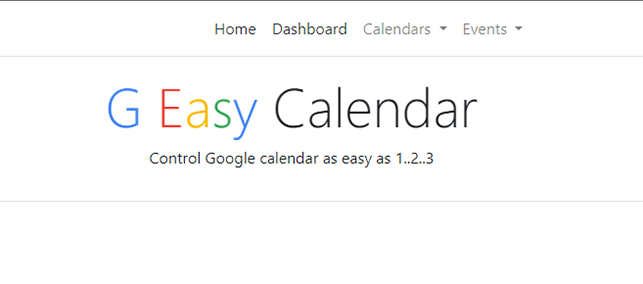
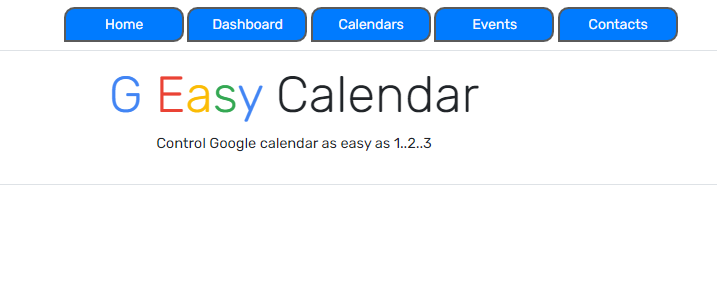
Fixes on the my-resume tags + CSS for printing black and white when needed ( commented code ) + new screenshot for the G Easy Calendar app

Changed region(s): [[0.0, 0.0, 1.0, 0.1986], [0.1555, 0.2553, 0.7465, 0.5957], [0.0, 0.6525, 1.0, 0.6809]]

diff --git a/style/print-resume.css b/style/print-resume.css
@@ -152,4 +152,85 @@
         margin-top: 2em;
     }
 
+/*CSS FOR PRINTING BLACK AND WHITE */
+
+    /* .left-container,
+    .right-container,
+    .profession,
+    .summary p,
+    .links-container1  h4 a,
+    .links-container1  h2,
+    .links-right-column h2,
+    .links-right-column a,
+    .right-container,
+    #id-projects,
+    .projects-container h4 a,
+    .coma,
+    .coma-white,
+    .bigger-container{
+        color: black;
+        border: none;
+    }
+
+    .coma{
+        background-color: black;
+        border: 1px black solid;
+    }
+
+    .coma-white{
+        background-color: lightblue;
+    }
+
+    .linkedin-container p,
+    .github-container p,
+    .facebook-container p,
+    .portfolio-container p{
+        color: black;
+        display: flex;
+        flex-direction: column;
+        text-align: center;
+        margin-left: 4.5em;
+    }
+
+    
+    .linkedin-container img,
+    .github-container img,
+    .facebook-container img,
+    .portfolio-container img{
+        color: lightblue;
+        width: 25px;
+        height: 25px;
+        overflow: hidden;
+        margin: 0;
+        padding: 0;
+        margin-left: 4.5em;
+        
+    }
+
+    .links-right-column h4 {
+        padding-top: 0;
+    }
+
+    .links-right-column{
+        display: flex;
+        flex-direction: column;
+    }
+
+    .linkedin-container, .github-container, .facebook-container, .portfolio-container {
+        display: flex;
+        flex-direction: column;
+        align-items: center;
+ 
+    }
+
+    .bigger-container{
+        border-top: 1px black solid;
+        border-bottom: 1px black solid;
+
+    }
+    .right-container{
+
+        border-left: 2px black solid;
+    } */
+    
 }

diff --git a/my-resume-hidden.html b/my-resume-hidden.html
@@ -376,19 +376,19 @@
                                 <a href="https://www.linkedin.com/in/ivan-marinov-marinov/" target="_blank">
                                     <div class="linkedin-container">
                                         <img src="./resume/images/SVG/linkedin.svg" alt="">
-                                        <h4>LinkedIn</4>
+                                        <h4>LinkedIn</h4>
                                     </div>
                                 </a>
                                 <a href="https://github.com/I-M-Marinov" target="_blank">
                                     <div class="github-container">
                                         <img src="./resume/images/SVG/github.svg" alt="">
-                                        <h4>GitHub</4>
+                                        <h4>GitHub</h4>
                                     </div>
                                 </a>
                                 <a href="https://www.facebook.com/lcfrrr" target="_blank">
                                     <div class="facebook-container">
                                         <img src="./resume/images/SVG/facebook.svg" alt="">
-                                        <h4>Facebook</4>
+                                        <h4>Facebook</h4>
                                     </div>
                                 </a>
                                 <a href="https://imarinov.dev" target="_blank">
